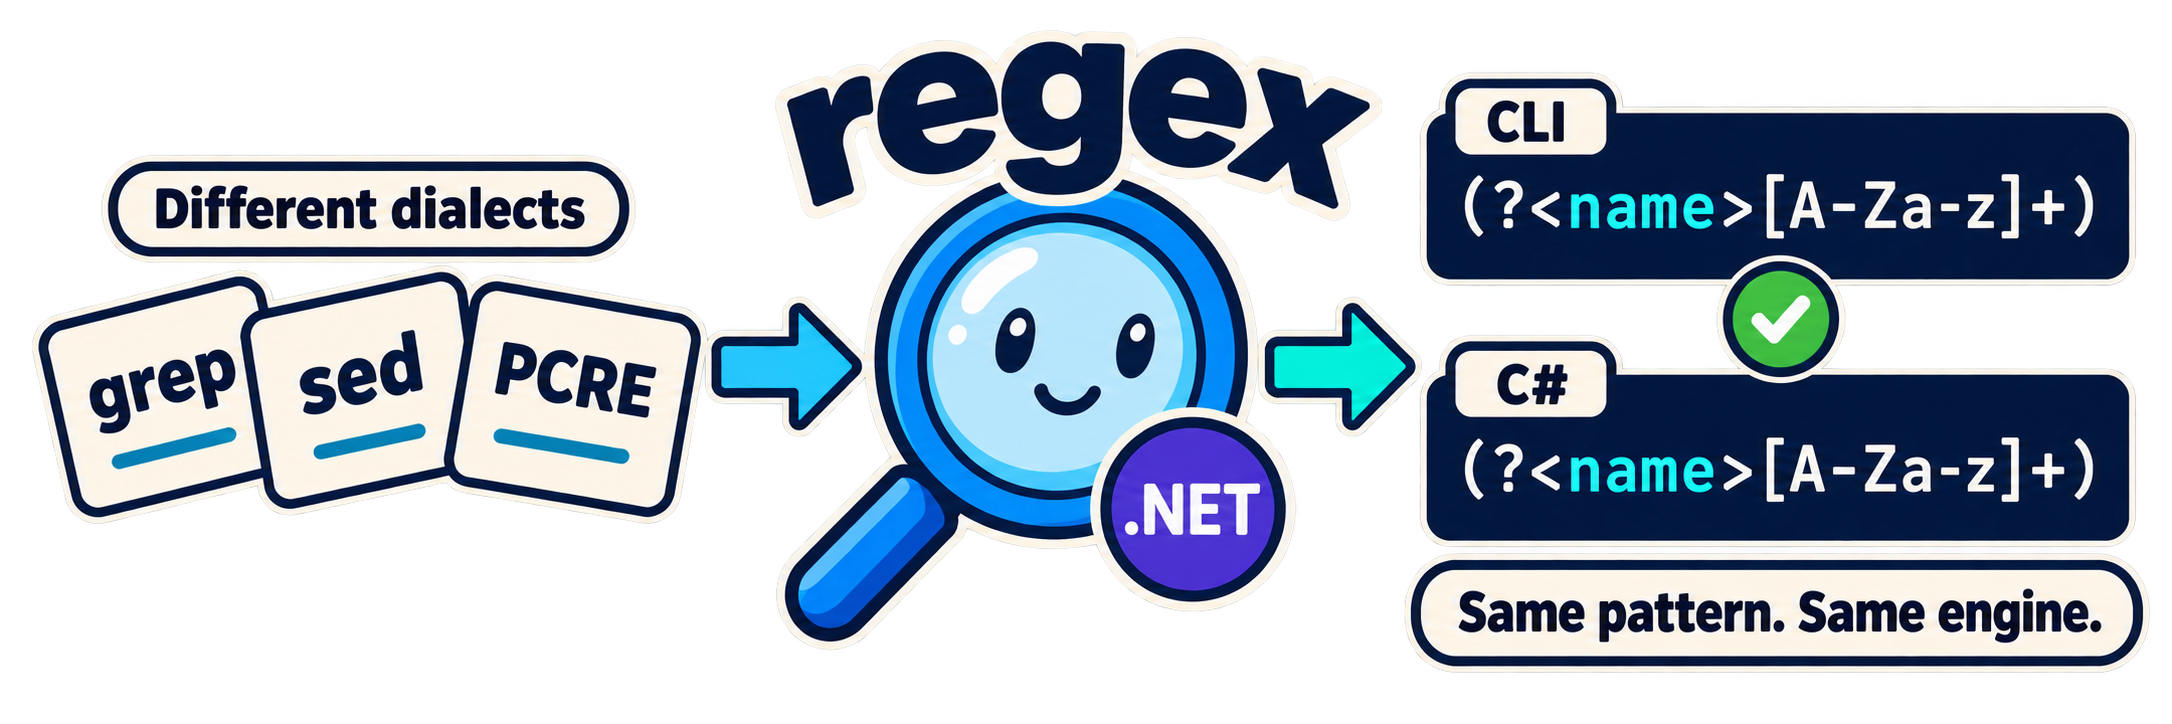
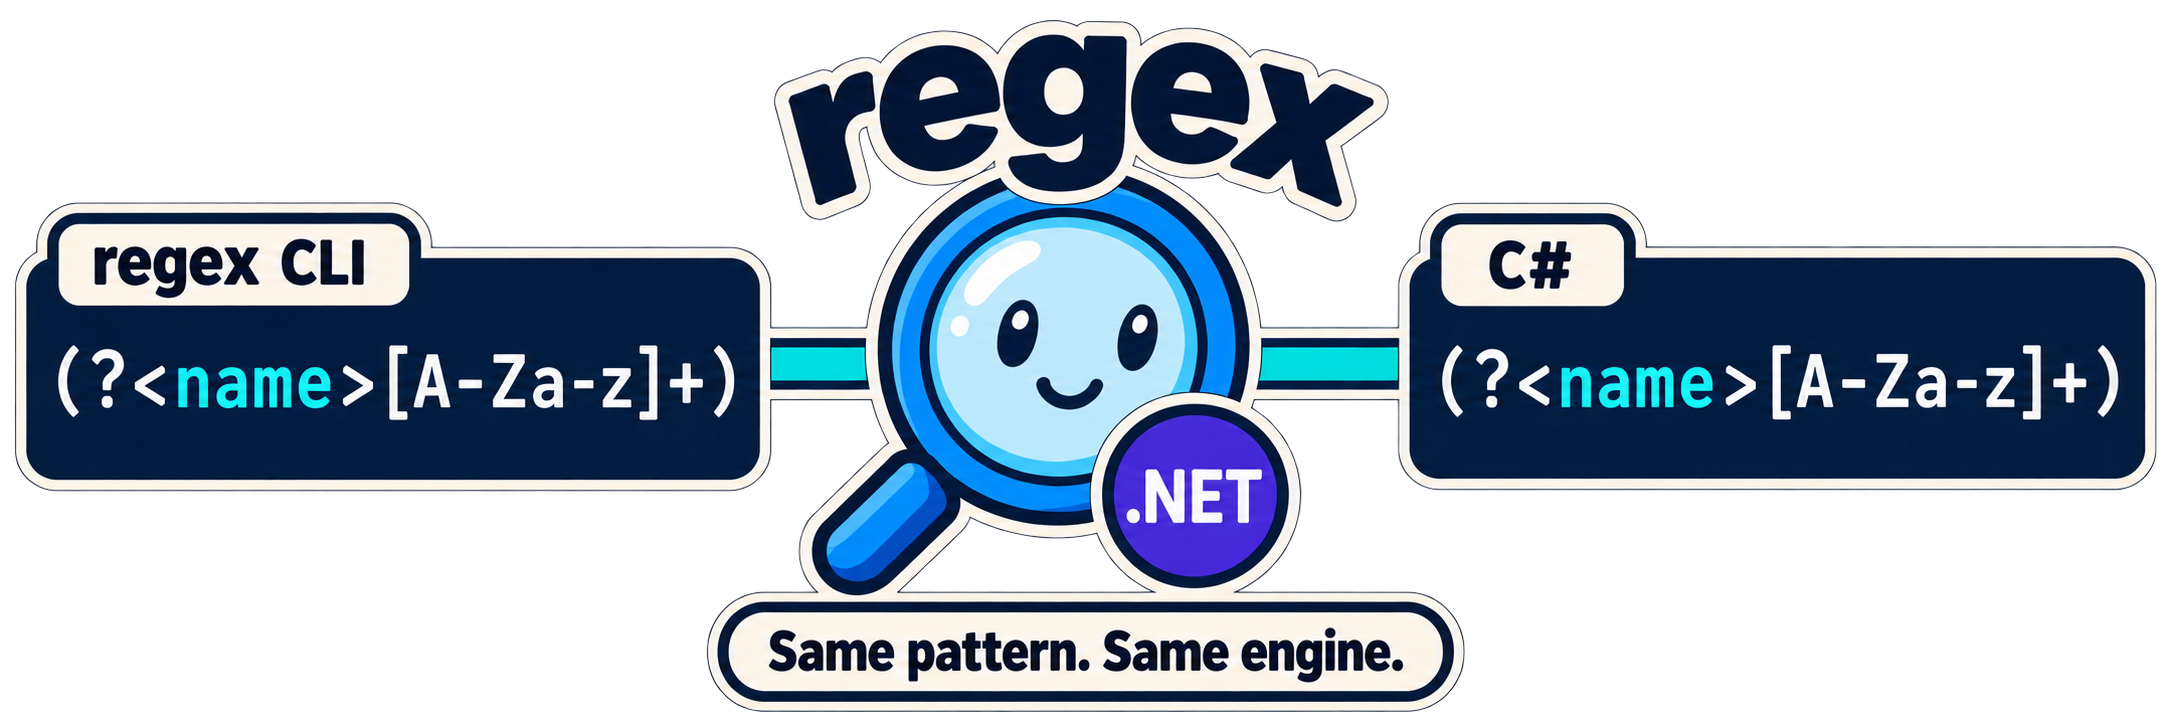
docs: show CLI and C# sharing the same regex engine

diff --git a/README.md b/README.md
@@ -4,7 +4,7 @@
 
 Search and replace with **.NET regular expressions** from the command line, using the same engine as your C# code.
 
-<img src="assets/hero-regex.png" alt="grep, sed and PCRE each speak a different regex dialect; regex runs the .NET flavor on the command line and the same pattern works unchanged in C#">
+<img src="assets/hero-regex.png" alt="regex CLI and C# share the .NET regular expression engine: same pattern, same engine">
 
 ## Why not grep or ripgrep?
 
